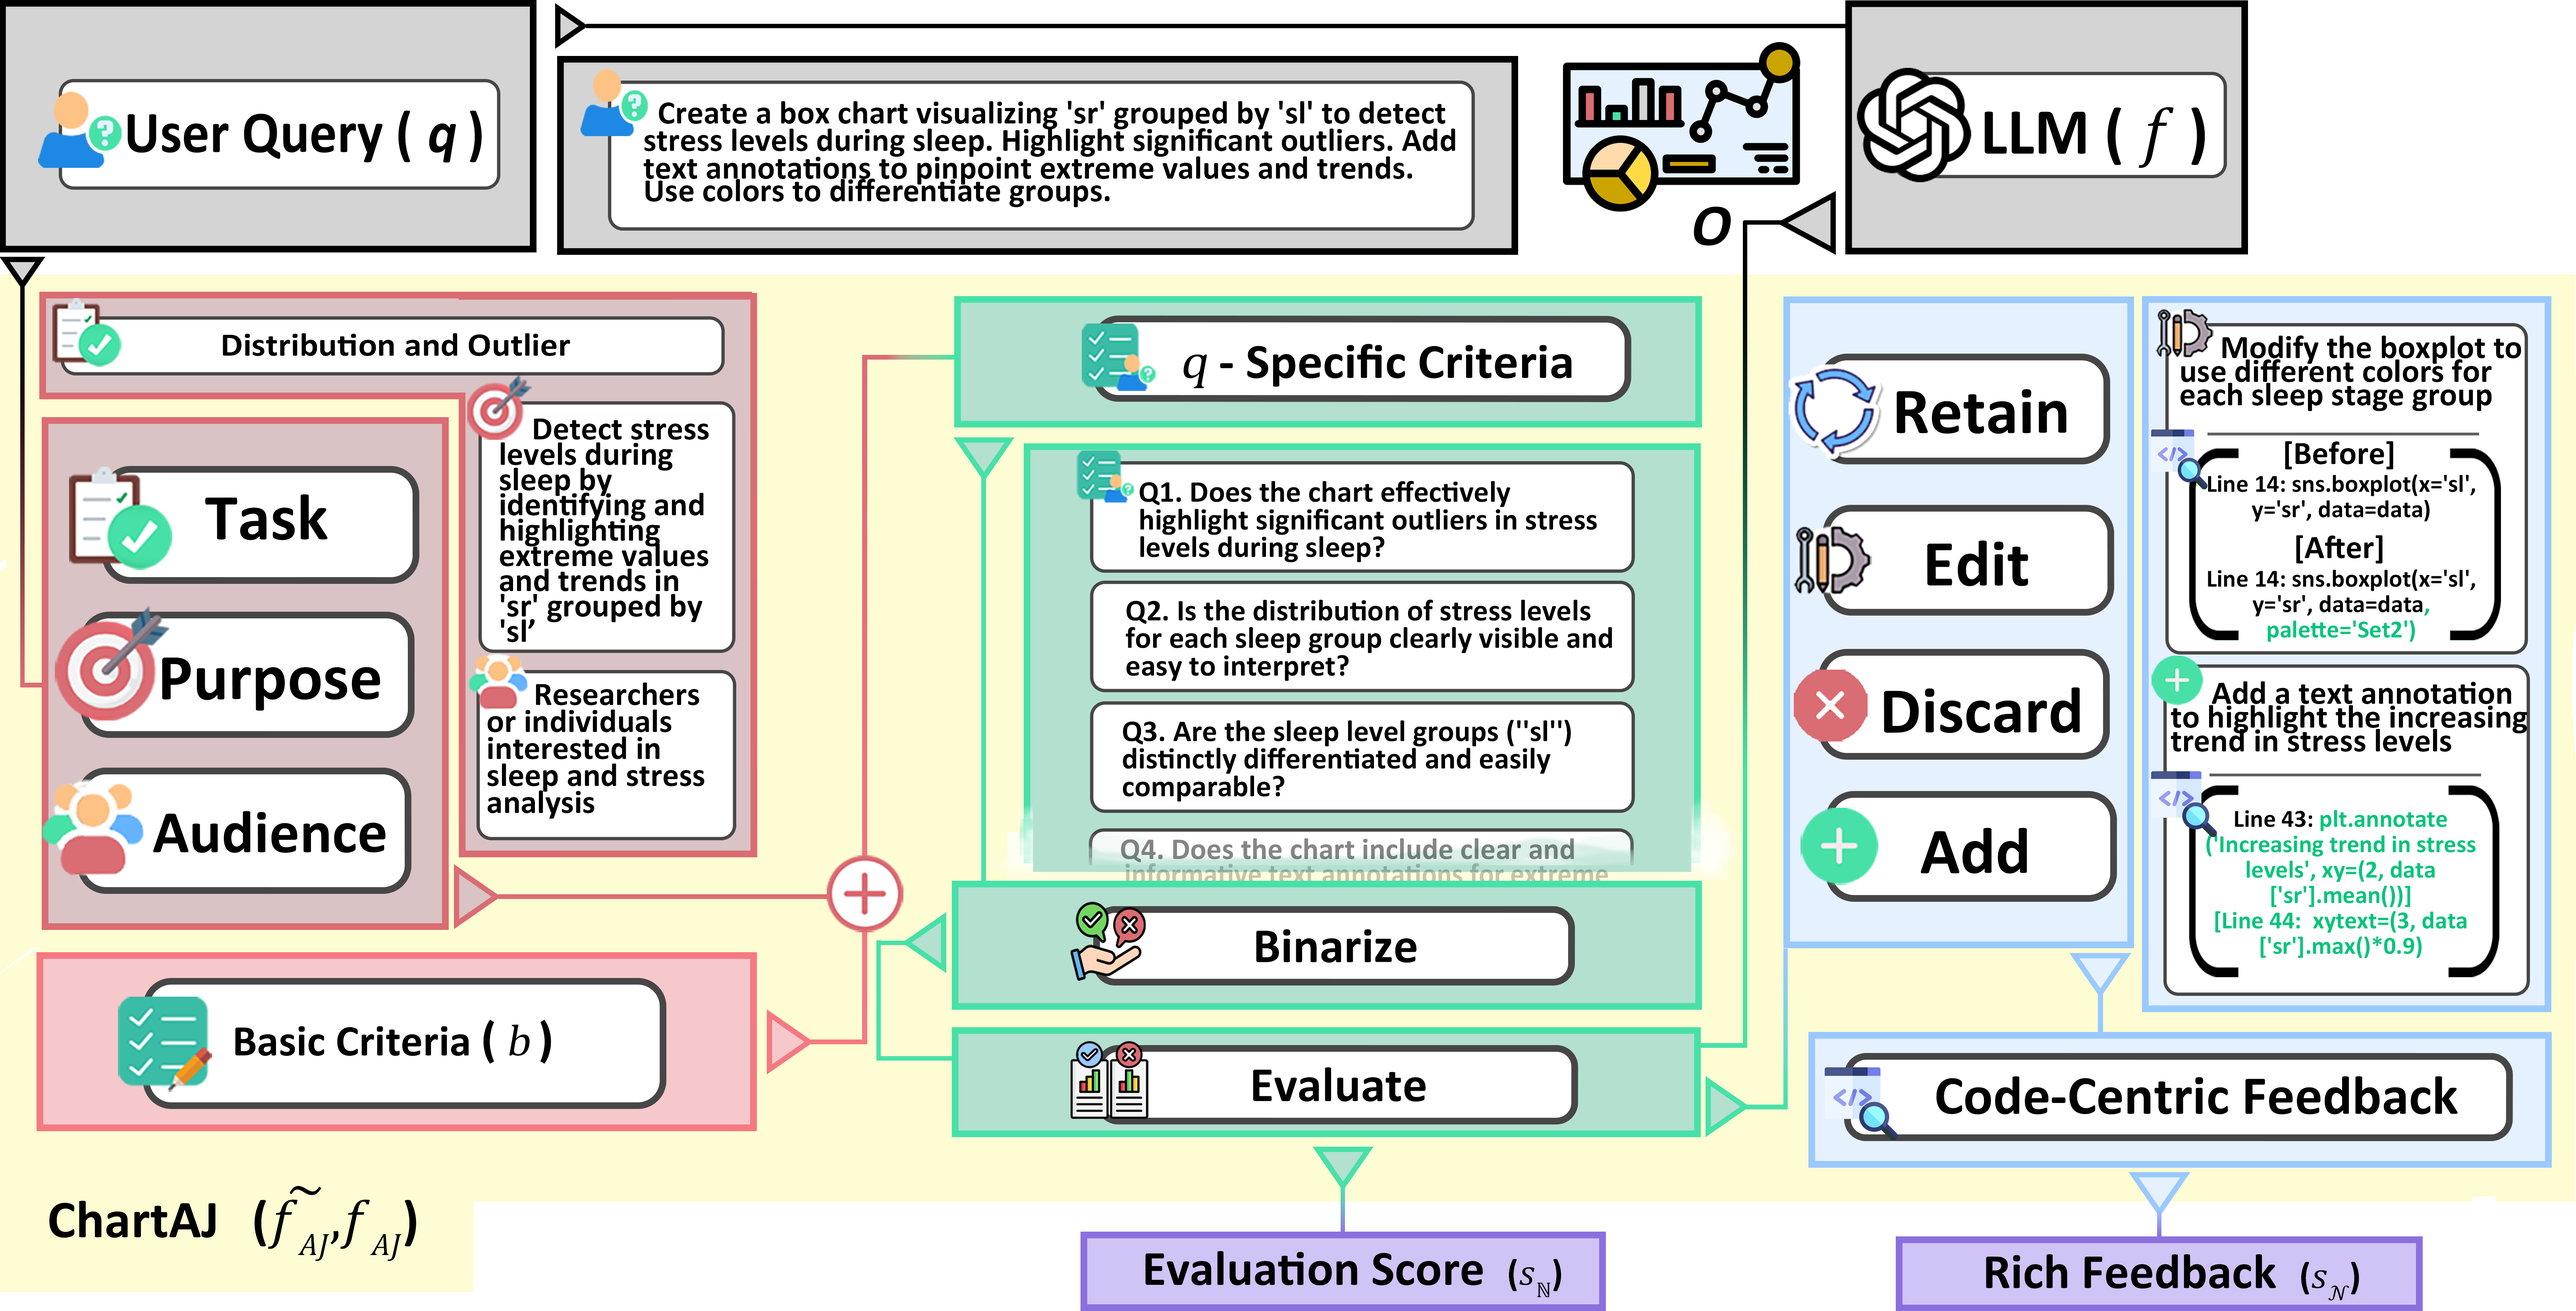
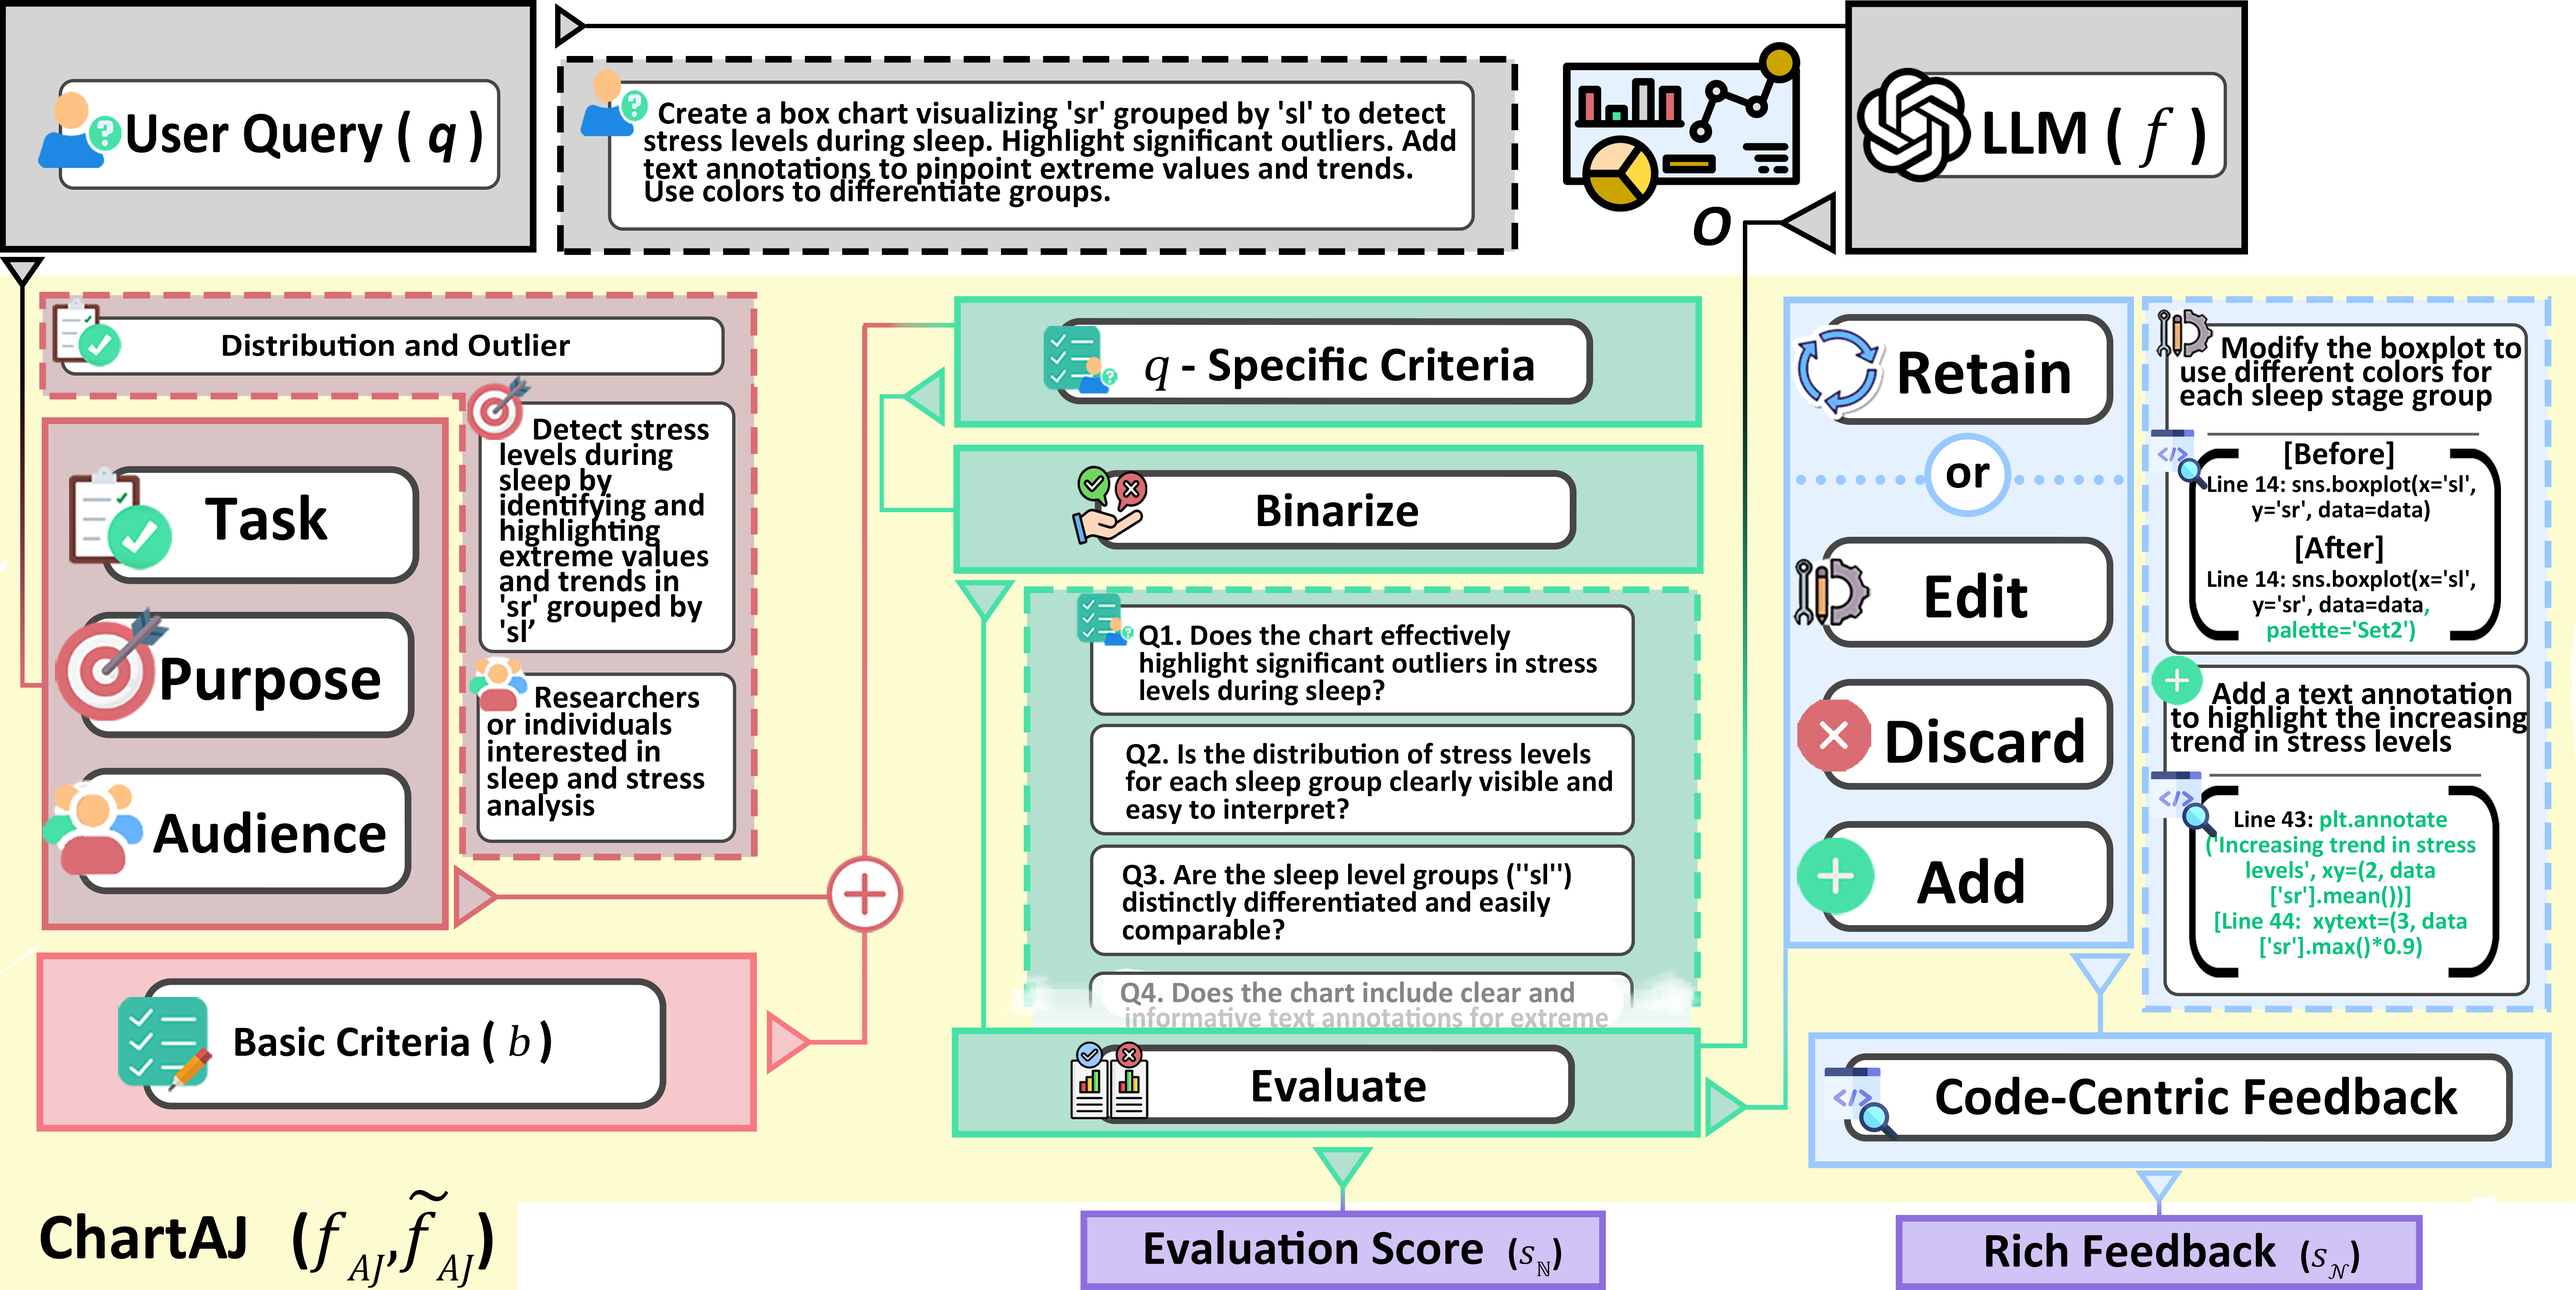
update README

diff --git a/README.md b/README.md
@@ -52,11 +52,12 @@ ChartAJ entails 3 modules:
 ### Module 1
 Module 1 is responsible for domain grounding, leveraging insights from the extensive chart literature in prominent venues. Three essential factors (1) Task, (2) Purpose, and (3) Audience are decomposed from the user query through `prompts/AJ_SD.txt` in `semantic_decompose(data)` function. Then, it is fused with the Basic Criteria (b, general and high-level criteria for chart evaluations) assigned to `basic_criteria` variable in `autojudge.py`, establishing <i>q-specific criteria</i>-specializing the general Basic Criteria (b) with `prompts/AJ_criteria_establishment.txt` prompt.
 
-### Module 2
-Module 2 is in charge of binarizing the <i>q-specific criteria</i> into Yes or No questions and evaluating the questions through additional subjective or objective filtering. The prompt for binarization is provided in `prompts/AJ_create_eval_q.txt`, and the prompt for evaluation is in `prompts/AJ_execute_eval.txt`.
 
-### Module 3
-Module 3 makes each evaluation QA set to be categorized into four actions—RETAIN, EDIT, ADD, or DISCARD. These evaluations are then converted into actionable code feedback. We provide the prompt `prompts/AJ_generate_feedback.txt` for generating code centric feedback.
+
+2. Criteria Binarization: The established criteria are transformed into multiple binary (Yes or No) questions for detailed scoring and feedback. We provide the prompts in `prompts/AJ_create_eval_q.txt`
+
+3. Visual Evaluation and Code Feedback: The chart is assessed against the multiple binary evaluation questions, with each QA set categorized into four actions—RETAIN, EDIT, ADD, or DISCARD. These evaluations are then converted into actionable code feedback to refine the initial d2c code. We provide two prompts for this: `prompts/AJ_execute_eval.txt` for evaluation question assessment with an attached target chart plot, and `prompts/AJ_generate_feedback.txt` for generating code centric feedback.
+
 
 ## ChartUIE-8K
 
